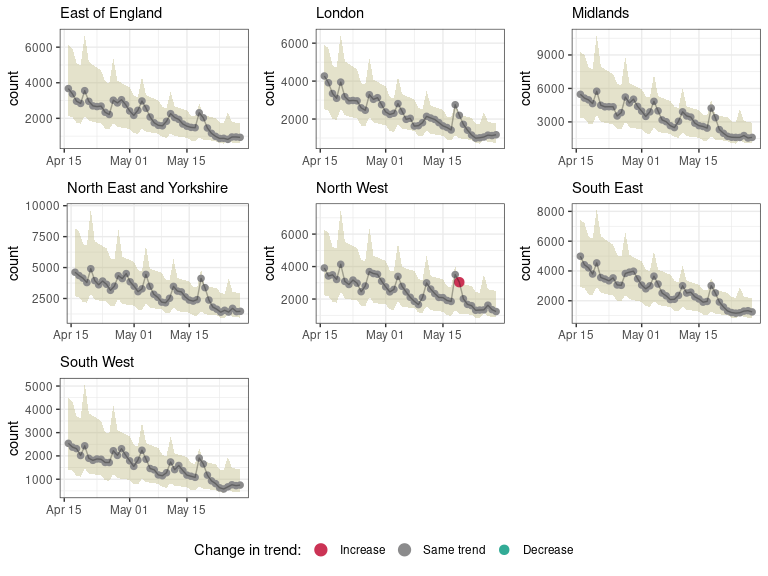
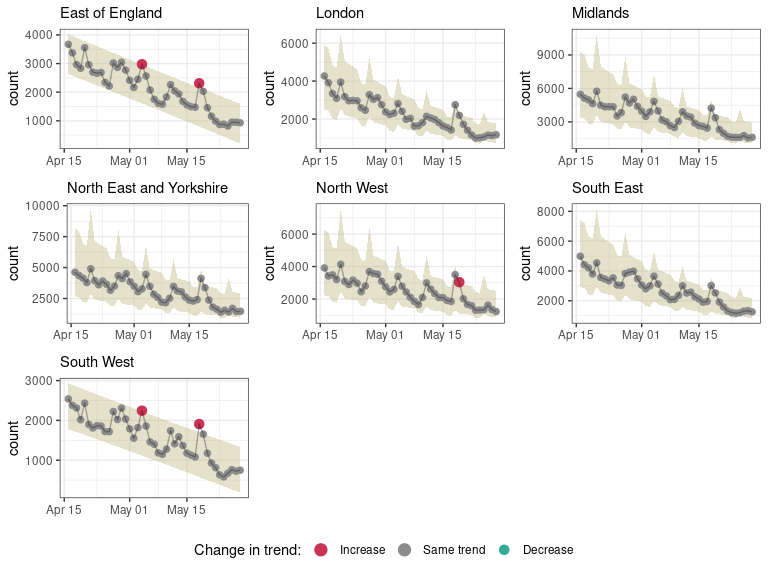
add linear model back in for comparison with other branches

Changed region(s): [[0.0312, 0.6562, 0.3125, 0.875], [0.0312, 0.0312, 0.3125, 0.25]]

diff --git a/README.md b/README.md
@@ -198,6 +198,7 @@ dat <-
 
 # define candidate models
 models <- list(
+  linear_time = lm_model(count ~ day),
   poisson_constant = glm_model(count ~ 1, family = "poisson"),
   negbin_time = glm_nb_model(count ~ day),
   negbin_time_weekday = glm_nb_model(count ~ day + weekday)
